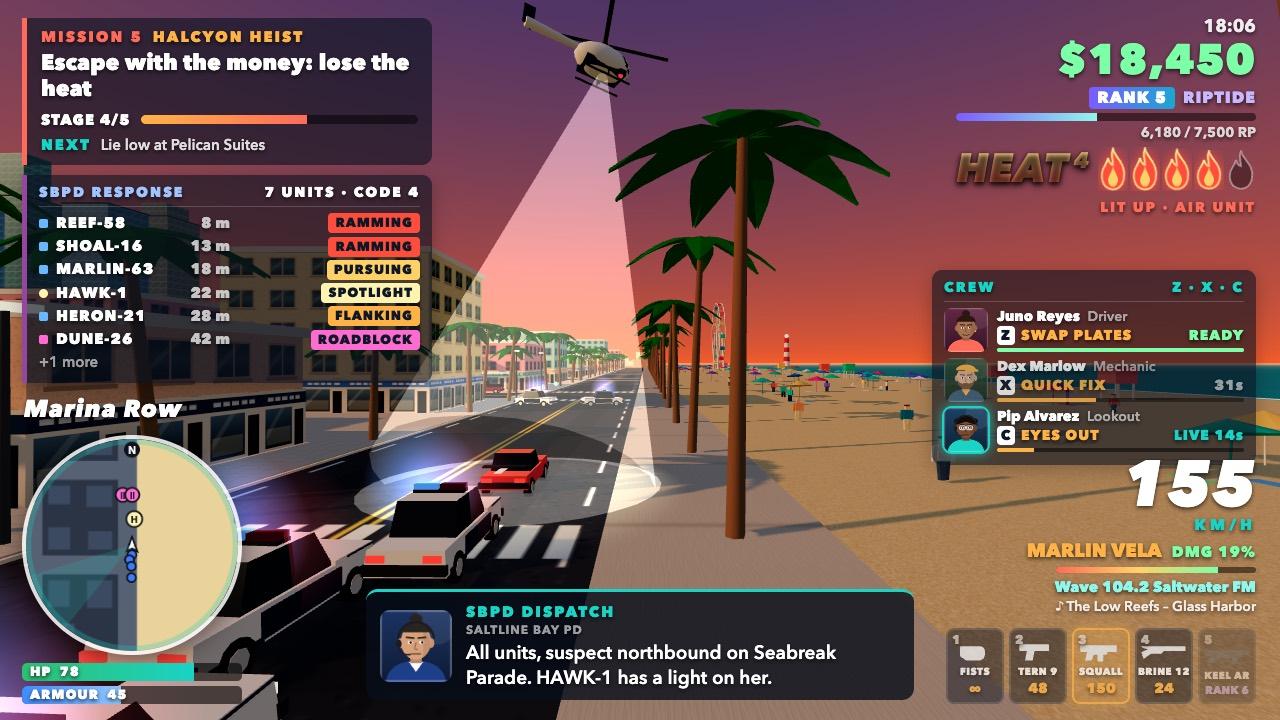
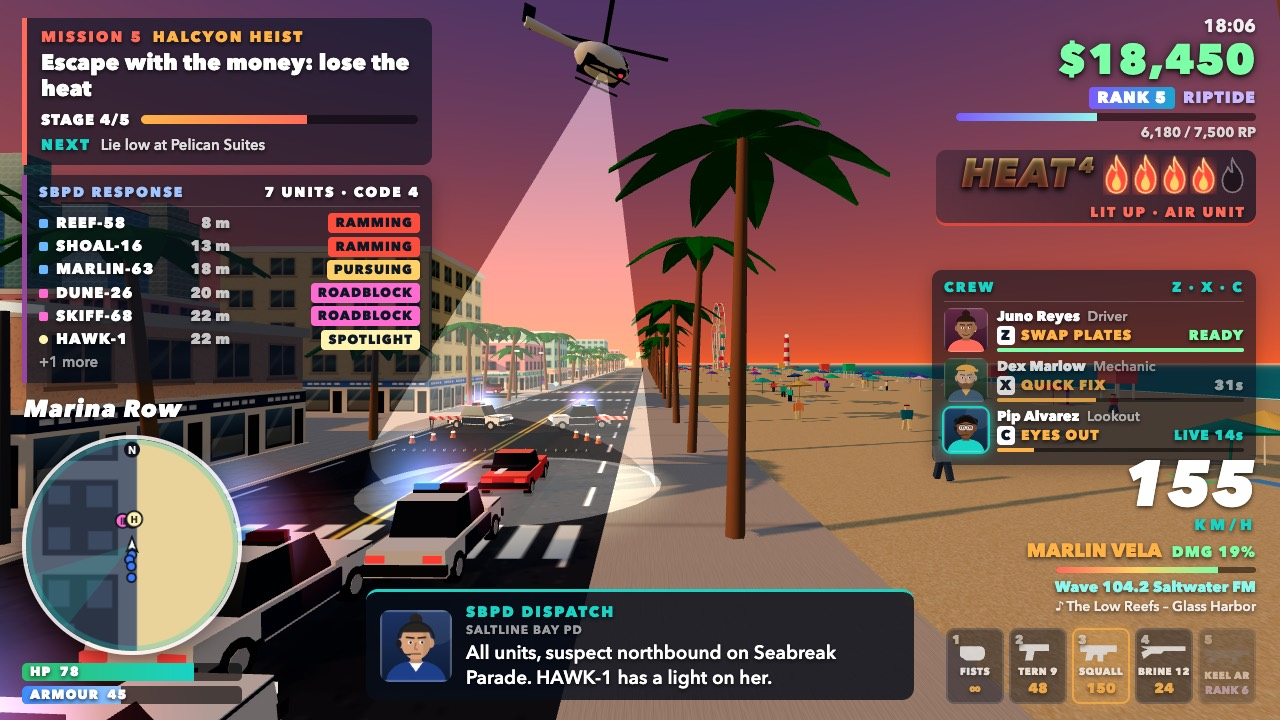
Roadblock barriers, cones and spike strips with flat-tyre handling, HEAT backdrop, README for the new systems

diff --git a/game/src/police/Roadblocks.js b/game/src/police/Roadblocks.js
@@ -1,10 +1,67 @@
 // HEAT 4+ roadblocks: while the player drives, SBPD parks two cruisers nose to nose across the
-// road ahead of them, lights flashing. Once the player is past (or the heat drops), the cruisers
-// rejoin the chase as ordinary pursuit units.
+// road ahead of them, lights flashing, with striped barriers and cones at the kerbs and a spike
+// strip laid on the approach. Driving over the strip shreds the tyres (the car loses top speed and
+// wobbles until Dex's Quick Fix). Once the player is past (or the heat drops), the cruisers rejoin
+// the chase as ordinary pursuit units and the barriers are cleared.
+import * as THREE from 'three';
 import { Vehicle } from '../vehicles/CarPhysics.js';
 import { roadCoord, roadIndexNear, onRoad, HALF, ROAD_HALF } from '../world/CityLayout.js';
 
 const AHEAD = 85;
+const STRIP_OFFSET = 11;   // metres in front of the cruisers, on the approach side
+
+let kit = null;
+function propKit() {
+  if (kit) return kit;
+  const c = document.createElement('canvas');
+  c.width = 64; c.height = 16;
+  const g = c.getContext('2d');
+  for (let i = 0; i < 8; i++) { g.fillStyle = i % 2 ? '#f4f4f0' : '#e8343b'; g.beginPath(); g.moveTo(i * 8, 0); g.lineTo(i * 8 + 8, 0); g.lineTo(i * 8 + 16, 16); g.lineTo(i * 8 + 8, 16); g.fill(); }
+  const stripes = new THREE.CanvasTexture(c);
+  stripes.colorSpace = THREE.SRGBColorSpace;
+  kit = {
+    board: new THREE.MeshLambertMaterial({ map: stripes }),
+    leg: new THREE.MeshLambertMaterial({ color: '#3a3d44' }),
+    cone: new THREE.MeshLambertMaterial({ color: '#ff7a1a' }),
+    band: new THREE.MeshBasicMaterial({ color: '#ffffff' }),
+    strip: new THREE.MeshLambertMaterial({ color: '#202226' }),
+    spike: new THREE.MeshLambertMaterial({ color: '#c9ced6' }),
+  };
+  return kit;
+}
+
+// Barriers, cones and the spike strip as one group, built along local x = across the road.
+function buildProps(stripOffset) {
+  const k = propKit(), g = new THREE.Group();
+  for (const s of [-1, 1]) {
+    const horse = new THREE.Group();
+    const board = new THREE.Mesh(new THREE.BoxGeometry(2.6, 0.32, 0.08), k.board);
+    board.position.y = 0.95; board.castShadow = true;
+    horse.add(board);
+    for (const lx of [-1.1, 1.1]) for (const lz of [-0.25, 0.25]) {
+      const leg = new THREE.Mesh(new THREE.BoxGeometry(0.06, 1.0, 0.06), k.leg);
+      leg.position.set(lx, 0.5, lz); leg.rotation.x = lz > 0 ? 0.25 : -0.25;
+      horse.add(leg);
+    }
+    horse.position.set(s * 6.6, 0, 0.5);
+    g.add(horse);
+    for (let i = 0; i < 3; i++) {
+      const cone = new THREE.Mesh(new THREE.ConeGeometry(0.22, 0.7, 10), k.cone);
+      cone.position.set(s * (4.4 + i * 0.9), 0.35, stripOffset * 0.45 + i * 1.3);
+      const band = new THREE.Mesh(new THREE.CylinderGeometry(0.13, 0.16, 0.12, 10), k.band);
+      band.position.set(cone.position.x, 0.42, cone.position.z);
+      g.add(cone, band);
+    }
+  }
+  const strip = new THREE.Mesh(new THREE.BoxGeometry(12, 0.06, 0.45), k.strip);
+  strip.position.set(0, 0.04, stripOffset);
+  g.add(strip);
+  const spikes = new THREE.InstancedMesh(new THREE.ConeGeometry(0.05, 0.16, 4), k.spike, 40);
+  const m = new THREE.Matrix4();
+  for (let i = 0; i < 40; i++) spikes.setMatrixAt(i, m.makeTranslation(-5.8 + (i >> 1) * 0.61, 0.13, stripOffset + (i % 2 ? 0.12 : -0.12)));
+  g.add(spikes);
+  return g;
+}
 
 export class Roadblocks {
   constructor(game) {
@@ -15,9 +72,15 @@ export class Roadblocks {
 
   get cars() { return this.blocks.flatMap((b) => b.cars.filter((v) => !v.removed && v.driver === 'roadblock')); }
 
-  // Two cruisers across the road through (x, z); axis 'z' means the road runs north-south.
-  place(x, z, axis) {
+  // Two cruisers across the road through (x, z); axis 'z' means the road runs north-south, and
+  // `approach` (+1/-1) is the side along that axis the player is coming from.
+  place(x, z, axis, approach = 1) {
     const game = this.game, cars = [];
+    const props = buildProps(STRIP_OFFSET);
+    props.position.set(x, 0, z);
+    props.rotation.y = axis === 'z' ? (approach > 0 ? 0 : Math.PI) : (approach > 0 ? Math.PI / 2 : -Math.PI / 2);
+    game.scene.add(props);
+    const strip = axis === 'z' ? { x, z: z + approach * STRIP_OFFSET } : { x: x + approach * STRIP_OFFSET, z };
     for (const s of [-1, 1]) {
       const across = axis === 'z' ? Math.PI / 2 : 0;
       const h = across + s * 0.32 + (s > 0 ? Math.PI : 0);
@@ -28,9 +91,24 @@ export class Roadblocks {
       game.vehicles.push(v);
       cars.push(v);
     }
-    const block = { cars, x, z, axis };
+    const block = { cars, x, z, axis, props, strip };
     this.blocks.push(block);
     return block;
+  }
+
+  // Spike strip: any car crossing it at speed gets its tyres shredded.
+  checkStrip(block) {
+    const s = block.strip;
+    for (const v of this.game.vehicles) {
+      if (v.flat || v.wrecked || v.driver === 'roadblock' || v.driver === 'police') continue;
+      const along = block.axis === 'z' ? Math.abs(v.z - s.z) : Math.abs(v.x - s.x);
+      const across = block.axis === 'z' ? Math.abs(v.x - s.x) : Math.abs(v.z - s.z);
+      if (along < 1.1 && across < 6.2 && Math.hypot(v.vx, v.vz) > 3) {
+        v.flat = true;
+        v.damage(6);
+        if (v.driver === 'player') { this.game.hud.toast('Spike strip! Tyres shredded'); this.game.camera?.shake(0.6); this.game.audio?.crash(12); }
+      }
+    }
   }
 
   // Finds a spot on the player's road a block ahead of them.
@@ -44,13 +122,13 @@ export class Roadblocks {
       if (Math.abs(v.x - x) > ROAD_HALF) return null;
       const z = v.z + dir * AHEAD;
       if (Math.abs(z) > HALF - 10 || !onRoad(x, z)) return null;
-      return this.place(x, z, 'z');
+      return this.place(x, z, 'z', -dir);
     }
     const z = roadCoord(roadIndexNear(v.z));
     if (Math.abs(v.z - z) > ROAD_HALF) return null;
     const x = v.x + dir * AHEAD;
     if (Math.abs(x) > HALF - 10 || !onRoad(x, z)) return null;
-    return this.place(x, z, 'x');
+    return this.place(x, z, 'x', -dir);
   }
 
   // Cruisers leave the roadblock: they join the pursuit (or go home if the heat is gone).
@@ -61,6 +139,7 @@ export class Roadblocks {
       if (wanted.level > 0 && !v.wrecked) wanted.adopt(v);
       else { v.driver = null; v.sirenOn = false; this.game.traffic.cars.push(v); }
     }
+    this.game.scene.remove(block.props);
     block.done = true;
   }
 
@@ -69,6 +148,7 @@ export class Roadblocks {
     this.cooldown -= dt;
     for (const b of this.blocks) {
       for (const v of b.cars) if (v.driver === 'roadblock') v.drive(dt, { throttle: 0, brake: 1, steer: 0, handbrake: true });
+      this.checkStrip(b);
       const d = Math.hypot(b.x - p.x, b.z - p.z);
       const v = game.player.vehicle;
       const behind = v && ((b.x - p.x) * v.vx + (b.z - p.z) * v.vz) < 0 && d > 18;
@@ -81,7 +161,10 @@ export class Roadblocks {
   }
 
   clear() {
-    for (const b of this.blocks) for (const v of b.cars) if (v.driver === 'roadblock') { v.driver = null; v.sirenOn = false; this.game.traffic.cars.push(v); }
+    for (const b of this.blocks) {
+      for (const v of b.cars) if (v.driver === 'roadblock') { v.driver = null; v.sirenOn = false; this.game.traffic.cars.push(v); }
+      this.game.scene.remove(b.props);
+    }
     this.blocks = [];
   }
 }

diff --git a/game/styles/hud.css b/game/styles/hud.css
@@ -47,7 +47,7 @@ html, body { margin: 0; height: 100%; overflow: hidden; background: #0d1726; fon
 .utag { margin-left: auto; font-size: 13px; letter-spacing: 1px; padding: 0 7px; border-radius: 4px; color: #0d1726; text-shadow: none; background: var(--c); }
 .unit.more { color: rgba(255,255,255,.6); font-weight: 600; }
 
-#topright { position: absolute; right: 24px; top: 14px; text-align: right; width: 300px; }
+#topright { position: absolute; right: 24px; top: 14px; text-align: right; width: 320px; }
 #clock { font-size: 18px; font-weight: 700; opacity: .9; }
 #money { font-size: 42px; font-weight: 900; color: #7dffa8; letter-spacing: 1px; line-height: 1.05; }
 #rank-box { margin-top: 4px; }
@@ -57,13 +57,16 @@ html, body { margin: 0; height: 100%; overflow: hidden; background: #0d1726; fon
 #rank-bar { margin: 4px 0 2px auto; width: 300px; height: 8px; background: rgba(0,0,0,.5); border-radius: 4px; overflow: hidden; }
 #rank-fill { height: 100%; width: 0; background: linear-gradient(90deg, #7b5cff, #8ff7ec); }
 #rank-rp { font-size: 14px; font-weight: 700; color: rgba(255,255,255,.8); }
-#heat { margin-top: 8px; display: flex; align-items: center; justify-content: flex-end; gap: 8px; flex-wrap: wrap; }
+#heat { margin-top: 8px; display: flex; align-items: center; justify-content: flex-end; gap: 8px; flex-wrap: wrap;
+  background: linear-gradient(270deg, rgba(10,18,32,.7), rgba(10,18,32,.35)); border-radius: 10px; padding: 5px 10px 4px; }
+#heat.hot { box-shadow: inset 0 -3px 0 rgba(255,77,61,.8); }
+#money { text-shadow: 0 2px 4px rgba(0,0,0,.8), 0 0 14px rgba(0,0,0,.45); }
 .heat-word { font-size: 40px; font-weight: 900; font-style: italic; letter-spacing: 1px; line-height: 1; color: rgba(255,255,255,.45); }
 .heat-word span { font-size: 22px; margin-left: 5px; vertical-align: top; }
 #heat.hot .heat-word { background: linear-gradient(180deg, #ffe08a, #ff4d3d); -webkit-background-clip: text; background-clip: text; color: transparent;
   filter: drop-shadow(0 2px 3px rgba(0,0,0,.7)); }
 #heat-flames { display: flex; gap: 2px; }
-.flame { width: 30px; height: 40px; }
+.flame { width: 27px; height: 37px; }
 .flame path { fill: rgba(0,0,0,.4); stroke: rgba(255,255,255,.4); stroke-width: 1.5; }
 .flame path.core { fill: none; stroke: none; }
 .flame.on path { fill: #ff4d3d; stroke: #ffe08a; filter: drop-shadow(0 0 5px #ff4d3d); }

diff --git a/game/src/shots/ShotDirector.js b/game/src/shots/ShotDirector.js
@@ -83,7 +83,7 @@ const SHOTS = {
       const c = game.wanted.addPoliceCar(x + ox, z + oz, Math.PI); c.vz = -27.5; return c;
     });
     cops[1].heading = Math.PI - 0.08;
-    game.wanted.roadblocks.place(roadCoord(8), z - 74, 'z');
+    game.wanted.roadblocks.place(roadCoord(8), z - 52, 'z');
     game.traffic.spawnCar(8, 2, { x: 0, z: 1 }, 10, 'scooter', '#ffd166');
     game.traffic.spawnCar(8, 3, { x: 0, z: 1 }, 40, 'taxi');
     game.traffic.spawnCar(8, 3, { x: 0, z: 1 }, 5, 'scooter', '#8ff7ec');
@@ -270,7 +270,7 @@ const SHOTS = {
         else if (s.type === 'loseWanted') game.wanted.clear();
         run(0.4);
       }
-      results.push(`${mission.id}: ${d.index > m ? 'PASSED' : `stuck at step ${d.stepIdx} (${d.step?.type})`}`);
+      results.push(`${mission.id}: ${d.index > m ? 'PASSED' : `stuck at step ${d.stepIdx} (${d.step?.type ?? game.hud.el['banner-sub'].textContent})`}`);
       if (d.index <= m) break;
     }
     // The Sunbreak Sprint: start it from the beach road, then pass every checkpoint.
@@ -322,6 +322,21 @@ const SHOTS = {
     out.push(`rank=${game.rank.rank} ${game.rank.title} shotgun=${game.weapons.owned.has('shotgun')}`);
     writeSave(game); game.rank.rp = 0; applySave(game, readSave());
     out.push(`save rp ${game.rank.rp === rp + 3000 ? 'OK' : 'LOST'}`);
+    // Spike strip: drive a fresh car at a roadblock, then have Dex fix the tyres.
+    if (game.player.vehicle) game.player.exitVehicle(true);
+    const v2 = new Vehicle(game, 'sedan', roadCoord(2) + LANE, 120, Math.PI);
+    game.vehicles.push(v2);
+    game.player.enterVehicle(v2);
+    game.wanted.setLevel(4);
+    game.wanted.roadblocks.clear();
+    game.wanted.roadblocks.place(roadCoord(2), 60, 'z', 1);
+    game.input.down.add('KeyW');
+    run(4);
+    game.input.down.clear();
+    const wasFlat = !!v2.flat;
+    game.crew.cooldowns.fix = 0;
+    game.input.pressed.add('KeyX'); run(0.1);
+    out.push(`spikes flat=${wasFlat} fixed=${!v2.flat}`);
     const report = `SYSTEMSTEST ${out.join(' | ')}`;
     const o = document.getElementById('error-overlay');
     o.style.display = 'block'; o.textContent += report;

diff --git a/game/src/vehicles/CarPhysics.js b/game/src/vehicles/CarPhysics.js
@@ -47,7 +47,11 @@ export class Vehicle {
     let vF = this.vx * fx + this.vz * fz;
     let vR = this.vx * rx + this.vz * rz;
 
-    if (c.throttle > 0) vF += t.accel * c.throttle * dt * (vF < t.maxSpeed ? 1 : 0);
+    // Shredded tyres (a spike strip): less top speed and grip, and the car pulls side to side.
+    const top = this.flat ? t.maxSpeed * 0.5 : t.maxSpeed;
+    if (this.flat && Math.abs(vF) > 4) c = { ...c, steer: c.steer + Math.sin(this.wheelSpin * 0.07) * 0.18 };
+    if (c.throttle > 0) vF += t.accel * c.throttle * dt * (vF < top ? 1 : 0);
+    if (vF > top) vF -= Math.min(vF - top, 6 * dt);
     if (c.brake > 0) {
       if (vF > 0.8) vF -= 30 * c.brake * dt;
       else if (vF > -t.maxSpeed * 0.35) vF -= t.accel * 0.6 * c.brake * dt;
@@ -56,7 +60,7 @@ export class Vehicle {
     if (!c.throttle && !c.brake) vF -= Math.sign(vF) * Math.min(Math.abs(vF), 3 * dt);
     vF *= 1 - 0.12 * dt;
 
-    const grip = c.handbrake ? 1.4 : t.grip;
+    const grip = c.handbrake ? 1.4 : this.flat ? t.grip * 0.6 : t.grip;
     vR *= Math.exp(-grip * dt);
 
     const speedFrac = clamp(Math.abs(vF) / t.maxSpeed, 0, 1);

diff --git a/game/src/ui/HudPanels.js b/game/src/ui/HudPanels.js
@@ -157,8 +157,8 @@ export class HudPanels {
     const game = this.game, v = game.player.vehicle;
     if (!v) return;
     const dmg = Math.round(100 - Math.max(0, v.health));
-    $('vehicle-dmg').textContent = `DMG ${dmg}%`;
-    $('vehicle-dmg').style.color = dmg > 55 ? '#ff6b5a' : dmg > 25 ? '#ffd166' : '#7dffa8';
+    $('vehicle-dmg').textContent = `DMG ${dmg}%${v.flat ? ' · TYRES FLAT' : ''}`;
+    $('vehicle-dmg').style.color = dmg > 55 || v.flat ? '#ff6b5a' : dmg > 25 ? '#ffd166' : '#7dffa8';
     $('dmg-fill').style.width = `${Math.max(0, v.health)}%`;
     const st = game.audio?.station ?? 0;
     $('radio-name').textContent = RADIO_STATIONS[st];

diff --git a/game/src/crew/CrewAbilities.js b/game/src/crew/CrewAbilities.js
@@ -63,9 +63,10 @@ export class CrewAbilities {
     if (member.id === 'fix') {
       if (!v) return 'Nothing to fix. You are on foot.';
       if (v.wrecked) return 'That one is scrap. Find another ride.';
-      if (v.health >= 99) return 'She is running fine. Call me when it smokes.';
+      if (v.health >= 99 && !v.flat) return 'She is running fine. Call me when it smokes.';
       v.health = 100;
-      game.hud.toast(`${v.type.name} patched up · 0% damage`);
+      game.hud.toast(`${v.type.name} patched up${v.flat ? ' · new tyres' : ''} · 0% damage`);
+      v.flat = false;
       return null;
     }
     if (member.id === 'eyes') {

diff --git a/game/src/police/WantedSystem.js b/game/src/police/WantedSystem.js
@@ -211,7 +211,7 @@ export class WantedSystem {
 
   checkBust(dt) {
     const game = this.game, pl = game.player;
-    if (this.level === 0 || pl.dead) { this.bustT = 0; return; }
+    if (this.level === 0 || pl.dead || game.godMode) { this.bustT = 0; return; }
     const pp = pl.position;
     let close = false;
     if (!pl.vehicle) {

diff --git a/README.md b/README.md
@@ -7,10 +7,17 @@
 **Saltline** is an original open-world crime game set in Saltline Bay, a sunny coastal city. It runs in the browser on three.js and makes no network requests. You play Rae Castillo, working up from stolen cars to the vault under Halcyon Trust across five story jobs: steal, deliver, chase, eliminate, hold and escape.
 
 - **City:** generated street grid with outskirts and hills, a day/night cycle with lit windows after dark, parked cars and shopfronts.
-- **Traffic and pedestrians:** AI cars follow the roads and pedestrians walk the sidewalks. You can drive any car or go on foot, and there are weapons and pickups.
-- **Police:** HEAT is a wanted level from 0 to 5. Saltline Bay PD sends pursuit cars that follow the road grid, ram you, put officers on foot and make arrests. Stay out of sight long enough and the heat cools off.
+- **Traffic and pedestrians:** AI cars and scooters follow the roads, pedestrians walk the sidewalks, and beach-goers settle under umbrellas on Sunbreak Beach. You can drive any car or go on foot.
+- **Police:** HEAT is a wanted level from 0 to 5, shown as a row of flames. Saltline Bay PD answers with a roster of named units, and the HUD lists each one with its live distance and what it is doing: ramming, flanking, pursuing, responding or holding a roadblock. At HEAT 3 an air unit flies over with a searchlight, and staying lit stops the heat cooling off. At HEAT 4 two cruisers park across the road ahead. Stay out of sight long enough and the heat cools off.
+- **Weapons and rank:** five slots (fists, pistol, SMG, shotgun, rifle), switched with 1-5. Jobs, races, stashes and crimes earn RP toward ten ranks, and rank 3 and rank 6 unlock the shotgun and the rifle.
+- **Crew:** three specialists on hotkeys with cooldowns. Z (Juno) swaps the plates: HEAT -1. X (Dex) does a quick fix: the car is repaired. C (Pip) puts eyes out: every police unit shows on the minimap for 22 s. Their portraits, and every face in the dialogue box, are painted on canvas.
+- **Missions:** the HUD shows the mission number and title, stage n/m with a progress bar, a timer when there is one, and the next stage. The speedometer shows the car's name, its damage and the radio track playing.
 - **Services and activities:** garage respray, gun shop and safehouse, plus the Sunbreak Sprint, a checkpoint street race with prize money and best-time records.
-- **Save:** story progress, money, weapons, armour, stashes found and your position are saved in localStorage.
+- **Save:** story progress, money, rank RP, weapons, armour, stashes found and your position are saved in localStorage.
+
+Controls: WASD move/drive, mouse aim, LMB shoot, 1-5 weapons, F enter/exit car, Space handbrake, Q look back, Z/X/C crew, R radio, M map, Esc pause.
+
+Headless checks (open with the server running): `?shot=soak` (100 s of random play), `?shot=missiontest` (plays every job and the race), `?shot=systemstest` (air unit, roadblock, roster, crew abilities, rank save).
 
 ## Run it
 
